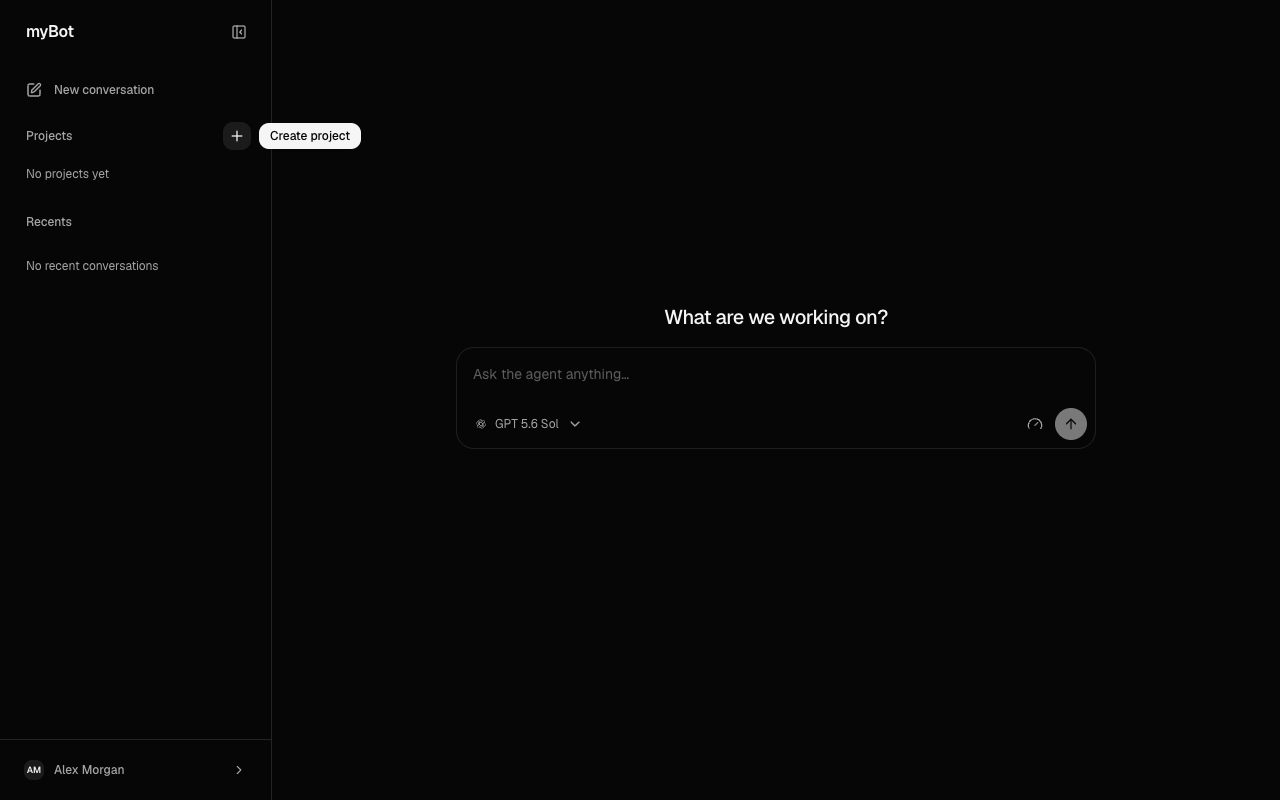
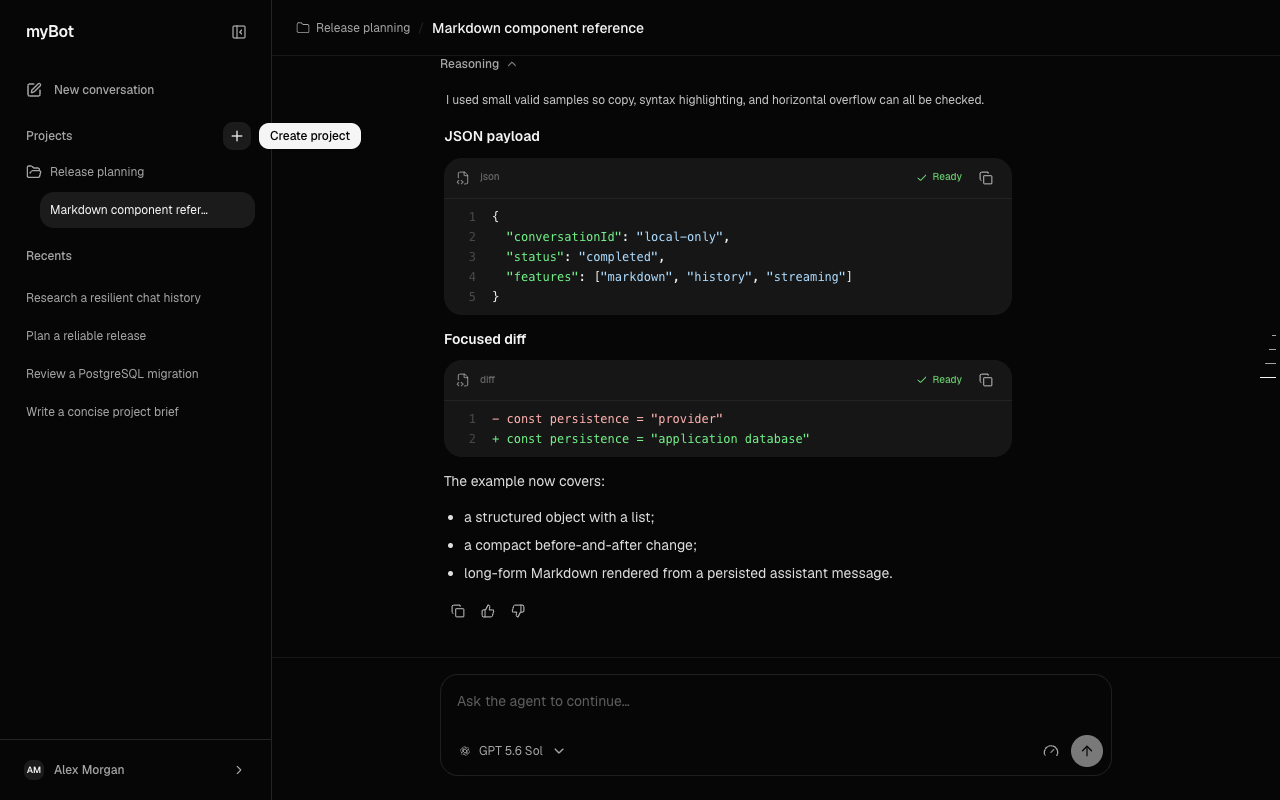
fix(chat): refine project context and focus

diff --git a/apps/web/src/features/chat/components/workspace/chat-header.tsx b/apps/web/src/features/chat/components/workspace/chat-header.tsx
@@ -1,13 +1,15 @@
-import { PanelLeft } from 'lucide-react'
+import { Folder, PanelLeft } from 'lucide-react'
 
 import { AnimatedSidebarTrigger } from '@/components/motion/animated-sidebar'
 import { cn } from '@/lib/utils'
 
 export function ChatHeader({
   title,
+  projectName,
   mobileOnly = false,
 }: {
   title: string
+  projectName?: string
   mobileOnly?: boolean
 }) {
   return (
@@ -26,9 +28,23 @@ export function ChatHeader({
         <PanelLeft aria-hidden="true" className="size-4" />
       </AnimatedSidebarTrigger>
       {!mobileOnly ? (
-        <h1 className="min-w-0 truncate text-sm font-medium text-foreground">
-          {title}
-        </h1>
+        <div className="flex min-w-0 flex-1 items-center gap-2">
+          {projectName ? (
+            <>
+              <span
+                className="inline-flex max-w-28 shrink-0 items-center gap-1.5 text-xs text-muted-foreground sm:max-w-48"
+                title={projectName}
+              >
+                <Folder aria-hidden="true" className="size-3.5 shrink-0" strokeWidth={1.5} />
+                <span className="truncate">{projectName}</span>
+              </span>
+              <span aria-hidden="true" className="text-xs text-border">/</span>
+            </>
+          ) : null}
+          <h1 className="min-w-0 flex-1 truncate text-sm font-medium text-foreground">
+            {title}
+          </h1>
+        </div>
       ) : null}
     </header>
   )

diff --git a/apps/web/src/features/chat/components/projects/create-project-dialog.tsx b/apps/web/src/features/chat/components/projects/create-project-dialog.tsx
@@ -3,6 +3,7 @@ import { useState, type FormEvent, type ReactElement } from 'react'
 import { Button } from '@/components/motion/button'
 import { Input } from '@/components/motion/input'
 import { Tooltip } from '@/components/motion/tooltip'
+import { useAnimatedSidebar } from '@/components/motion/animated-sidebar-context'
 import {
   Dialog,
   DialogContent,
@@ -20,6 +21,7 @@ type CreateProjectDialogProps = {
 }
 
 export function CreateProjectDialog({ trigger, onCreate }: CreateProjectDialogProps) {
+  const sidebar = useAnimatedSidebar()
   const [open, setOpen] = useState(false)
   const [name, setName] = useState('')
   const [error, setError] = useState('')
@@ -65,7 +67,7 @@ export function CreateProjectDialog({ trigger, onCreate }: CreateProjectDialogPr
         }
       }}
     >
-      <Tooltip content="Create project" side="right">
+      <Tooltip content="Create project" side={sidebar.isMobile ? 'bottom' : 'right'}>
         <DialogTrigger render={trigger} />
       </Tooltip>
       <DialogContent>

diff --git a/apps/web/src/features/chat/components/workspace/chat-workspace.tsx b/apps/web/src/features/chat/components/workspace/chat-workspace.tsx
@@ -81,6 +81,10 @@ export function ChatWorkspace({
   onSignOut,
 }: ChatWorkspaceProps) {
   const empty = !loading && !loadError && messages.length === 0
+  const activeProjectId = conversations.find((conversation) =>
+    conversation.id === activeConversationId)?.project_id
+  const activeProjectName = projects.find((project) =>
+    project.id === activeProjectId)?.name
   const composer = (
     <ChatComposer
       models={models}
@@ -120,7 +124,11 @@ export function ChatWorkspace({
           onSignOut={onSignOut}
         />
         <AnimatedSidebarInset className="h-svh min-h-0">
-          <ChatHeader title={title} mobileOnly={!activeConversationId} />
+          <ChatHeader
+            title={title}
+            projectName={activeProjectName}
+            mobileOnly={!activeConversationId}
+          />
           <div className="relative flex min-h-0 flex-1 flex-col overflow-hidden">
             <span aria-live="polite" className="sr-only">{status}</span>
             {loading ? (

diff --git a/apps/web/src/features/chat/components/sidebar/chat-sidebar.tsx b/apps/web/src/features/chat/components/sidebar/chat-sidebar.tsx
@@ -87,7 +87,7 @@ export function ChatSidebar({
                 <button
                   type="button"
                   aria-label="Create project"
-                  className="grid size-7 place-items-center rounded-lg text-muted-foreground outline-none transition-colors hover:bg-muted hover:text-foreground focus-visible:ring-2 focus-visible:ring-ring"
+                  className="grid size-7 place-items-center rounded-lg text-muted-foreground outline-none transition-colors hover:bg-muted hover:text-foreground focus-visible:bg-muted focus-visible:text-foreground focus-visible:ring-2 focus-visible:ring-inset focus-visible:ring-ring"
                 >
                   <Plus aria-hidden="true" className="size-4" />
                 </button>
